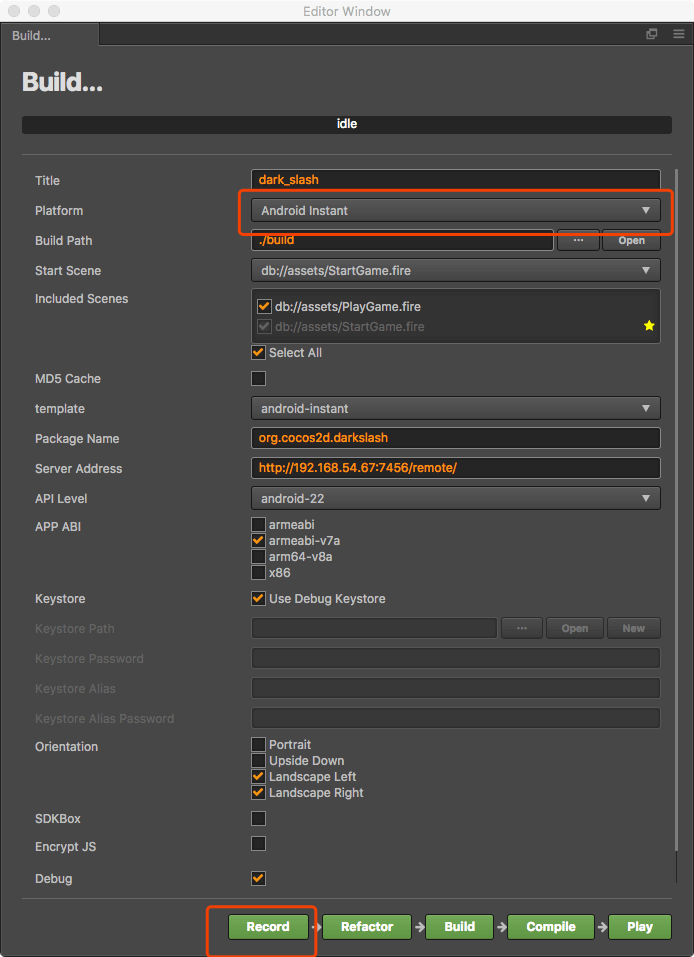
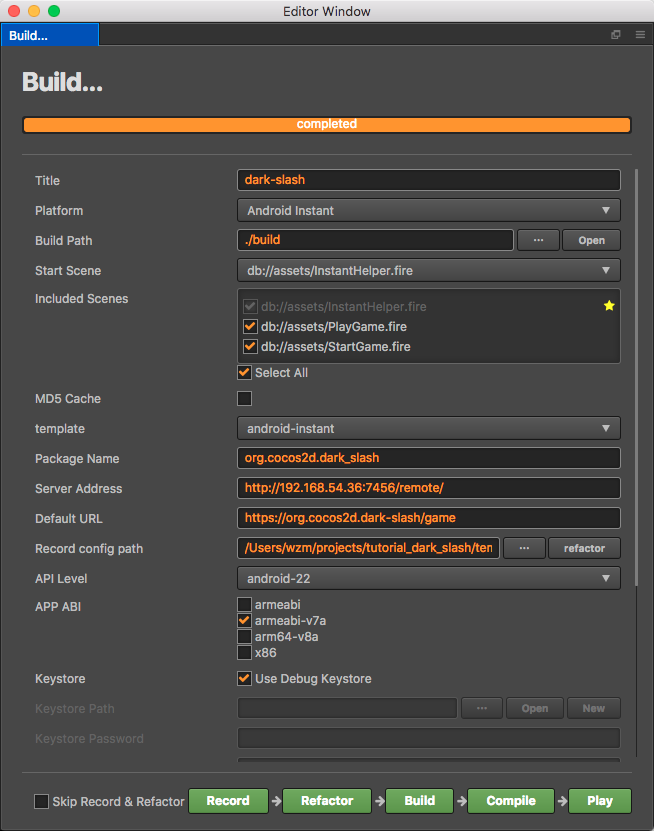
add google instant app docs

Changed region(s): [[0.0, 0.0, 1.0, 1.0], [0.7951, 0.8424, 0.8563, 0.8724], [0.8869, 0.8424, 0.9174, 0.8724]]

diff --git a/en/publish/publish-android-instant.md b/en/publish/publish-android-instant.md
@@ -2,25 +2,98 @@
 
 ## Requirement 
  - Android Studio 3.0+
- - Android Phone 8.0+
+
+ - Android Phone 6.0+
+
  - NDK r10c +
- 
-## Publish Process
- 1. Start cocos creator. 
- 2. Open Project->Build panel.
- 3. Click **Record** button to open simulator ,it will record game resources info automatically.
- 
+
+   
+
+## Instant Games Publish Process
+
+ 1. Start CocosCreator. 
+
+ 2. Open **Projec** t-> **Build panel** , select **Android Instant** platform , and **android-instant** template.
+
+ 3. If you don't need to refactor or want to experience the publish process , You can hook the **Skip Record & Refactor **box , then click **Build** , **Compile **, connect android phone to computer and then click **Play** , when process complete you can run instant app on the phone.
+
     ![](./publish-android-instant/open-refactor.png)
-    ![](./publish-android-instant/record.png)
-    
- 4. Click **Refactor** button to open Refactor panel, select the end point you want to pack into the first package,and then click **Save** button to save the package info.
- 
-    ![](./publish-android-instant/refactor.png)
-    
- 5. Click **Build** button to build the native android instant project then you can find it in the folder *build/android-instant*
- 6. Open the Android-studio app and open the project we create (path:*build/android-instant/framework/runtime-src/proj.android-studio*)
- 
-    ![](./publish-android-instant/android-studio.png)
- 
- 7. Connect Android Phone (Android 8.0+) to the computer and make sure the computer and the phone at the same Local Area Network.
- 8. Build project and run instantapp module.
+
+    4. If you need  **refactor** , you can click **Record** button and simulator will be opened. The simulation will automatically record the resources used . What we need to do is to play the game according to our game flow and let the simulator record resources information.
+
+       ![](./publish-android-instant/record.png)
+
+    5. After the recording is completed, click on the **Refactor**, the Refactor panel will be opened. In this panel, we can complete the refactor operation.(please see the following introduction  **Refactor** for more detail)
+
+    6. After we do the **Refactor**, we need to select the path of our record in the **record config path**, click the **...** button and select the record we just create.(the records path is in `path_to_your_project/temp/android-instant-games/profiles`, and we delete the record that we don't need by delete the record folder)
+
+       ![](publish-android-instant/refactor_record.png)
+
+    7. Like step 3, Click **Build**, **Compile**, **Play** button, and make sure the phone is on the same LAN as the PC, you can test the game running on the Instant App (More about Build config description please see the following introduction **Android Instant Build Panel**)
+
+       
+
+## Refactor
+
+The **Refactor** is used to edit the first package of the game and select the resources to be placed in the first package.
+
+![](publish-android-instant/refactor_desc.png)
+
+### How to use
+
+1. When you finish the Record, Click **Refactor** to open Refactor panel.
+
+2. The **Refactor** opens the latest record by default. If you need to open another record, you can click **+ Open record**. The **Refactor** can also open multiple records at the same time for comparison.
+
+3. Drag the **end point**, you can choose to divide the resources into the first package. When you drag the end point, you can find the data of the file list and the total size and other data changes. Select the size of the first package suitable for the game and we can finish the first step of the record.
+
+4. **Refactor** also can cancel resource manual, on the page of the file list, expand the nodes of each category, and we can see the size of each file, we can remove the resource by uncheck the resource item.
+
+   ![](publish-android-instant/refactor_select.png)
+
+5. If some resources are not in the first package, but we want to put it in the first package, we can click the **+Manual** button to open **Manual** panel, the rest of the resources will be presented here. Check the resources you need to put into the first package and click the **Save** button you will find it add to the first panel.
+
+   ![](publish-android-instant/refactor_manual.png)
+
+6. We can also drag resources from **Assets** panel  into **Refactor** panel to add another resources into first package.
+
+7. Finally, click **Save** button to save the first package info into record.
+
+8. In the **Record config path** option of the **Build...** panel,select the record we just edited, and then click the **Build** button, creator will use this record to generate the first package and other resources.
+
+## Android Instant Build Panel
+
+### Several major configurations description
+
+- **Server Address**: CocosCreator will go to this address to download resources tha are not in the first package. we can put remote_res (resource path:`build/android-instant/remote_res`) on our servers or CDN.
+
+- **Default URL**: Android will load your instant app by this URL.(see more detail: <a href="https://developer.android.com/topic/google-play-instant/getting-started/first-instant-app">Android Instant App Docs</a>)
+
+- **Record Config Path**: CocosCreator will use this crecord config to generate first package and remote_res folder.
+
+  
+
+## Instant Cookie API
+
+We have provided some APIs to make it easier for developers to call some of Google's features directly, we support Google Cookie API now.(CocosCreator Cookie API Demo: <a href="https://github.com/wuzhiming/AndroidInstantCookieDemo">**AndroidInstantCookieDemo**</a>)
+
+- cc.androidInstant.showInstallPrompt()   For more information, please visit：<a href="https://developers.google.com/android/reference/com/google/android/gms/instantapps/InstantApps.html#showInstallPrompt(android.app.Activity,%20android.content.Intent,%20int,%20java.lang.String)t">showInstallPrompt</a>
+
+- cc.androidInstant.isInstantApp()   For more information, please visit：<a href="https://developers.google.com/android/reference/com/google/android/gms/instantapps/PackageManagerCompat#isInstantApp()">isInstantApp</a>
+
+- cc.androidInstant.getInstantAppCookie()   For more information, please visit：<a href="https://developers.google.com/android/reference/com/google/android/gms/instantapps/PackageManagerCompat#getInstantAppCookie()">getInstantAppCookie</a>
+
+- cc.androidInstant.setInstantAppCookie()   For more information, please visit：<a href="https://developers.google.com/android/reference/com/google/android/gms/instantapps/PackageManagerCompat#setInstantAppCookie(byte%5B%5D)">setInstantAppCookie</a>
+
+- cc.androidInstant.getInstantAppCookieMaxSize()    For more information, please visit：<a href="https://developers.google.com/android/reference/com/google/android/gms/instantapps/PackageManagerCompat#getInstantAppCookieMaxSize()">getInstantAppCookieMaxSize</a>
+
+  
+
+
+## Knowledge links
+
+1. <a href="https://developer.android.com/topic/google-play-instant/getting-started/first-instant-app">Instant App</a>
+2. <a href="https://developers.google.com/android/reference/com/google/android/gms/instantapps/InstantApps">Google InstantApps API</a>
+3. <a href="https://github.com/googlesamples/android-instant-apps">Google Instant App Samples</a>
+4. <a href="https://github.com/wuzhiming/AndroidInstantCookieDemo">CocosCreator AndroidInstantCookieDemo</a>
+

diff --git a/zh/publish/publish-android-instant.md b/zh/publish/publish-android-instant.md
@@ -1,0 +1,109 @@
+
+
+# 发布 Android Instant 游戏
+
+## 需要的环境
+
+- Android Studio 3.0+
+
+- Android Phone 6.0+
+
+- NDK r10c +
+  
+
+## Instant Games 发布步骤
+
+1. 打开 CocosCreator
+
+2. 打开 **项目** -> **构建发布**，**发布平台**选择 **Android Instant** ，**模板**选择 **android-instant**
+
+3. 如果不需要进行分包或者想体验下打包流程，可以勾选**跳过录制和分包**，然后直接进行**构建**、**编译** ，连上手机之后，点击**运行**，即可看到 Instant App 的运行效果
+
+   ![](publish-android-instant/builder.png)
+
+4. 如果需要进行分包操作，那么请点击**录制**，这个时候模拟器将会打开，模拟将会自动记录使用到的资源，我们要做的是根据我们的游戏流程进行游戏，让模拟器记录资源使用的信息
+
+   ![](publish-android-instant/record.png)
+
+5. 录制完成后，点击**分包**，将会打开分包界面，在这个界面，我们可以完成分包操作，完成后我们进行**保存**（这里我们不展开说明，请看后面的 **分包器介绍** ）
+
+6. 分包完成后，我们需要在**构建发布**面板里面的**分包配置路径**属性选择我们的刚刚分包的路径，点击**...**选择我们刚刚分包的记录（分包记录保存在  `path_to_your_project/temp/android-instant-games/profiles` 我们可以删除自己不需要的分包记录，只需要删除对应文件夹即可）
+
+   ![](publish-android-instant/refactor_record.png)
+
+7. 同步骤3，点击**构建** 、**编译** 、**运行**，并确保手机跟pc在同一个局域网内，就可以测试游戏在Instant App运行的情况（构建发布面板的Android Instant配置的说明，请看后面的 **Android Instant 构建面板**）
+
+   
+
+## 分包器
+
+分包器，主要用来为游戏进行首包的编辑，选择放入首包的资源
+
+![](publish-android-instant/refactor_desc.png)
+
+### 使用方法
+
+1. 当录制完成后，选择**分包**就会打开分包界面，如上图所示
+
+2. 分包器默认打开的是最新的录制记录，如果需要打开别的记录，可以使用**+打开记录**，打开别的记录。分包器也可以同时打开多个记录，进行对比
+
+3. 拖动 **终止点**，可以选择分入首包的资源，当拖动终止点的时候，可以发现文件列表的文件数量和总大小等数据的变化，选择合适游戏的首包大小，即可粗略的分好首包的资源
+
+4. 分包器可以对所有资源进行调整，在文件列表的页面，展开各个分类的节点，可以看到对应各个文件的大小，取消**操作**的打钩就可以手动**取消**某个资源放入首包当中
+
+   ![](publish-android-instant/refactor_select.png)
+
+5. 如果有些资源没有在首包之中，但是我们又希望将其放入首包中，可以从 **+手动添加**里面添加入首包之中，只需要找到对应资源并在资源后面打上勾，并点击**添加**即可
+
+   ![](publish-android-instant/refactor_manual.png)
+
+6. 如果还有额外的资源需要加入首包，那么，也可以从**资源管理器**面板选择资源，并拖拽进入**分包器**面板即可
+
+7. 分包完成之后，点击**保存**
+
+8. 在**构建发布**面板的**分包配置**选项，选择刚刚编辑的分包记录，点击**构建**，就会使用该分包记录进行首包的分割
+
+
+
+## Android Instant 构建面板
+
+### 几个主要的配置
+
+- **服务器地址**：远端资源的下载地址，可以是cdn地址，将`build/android-instant/remote_res`文件夹放入服务器或者CDN中即可，Creator 会去这个地址下载没有在首包当中的资源
+- **启动URL**：Android Instant App 会根据这个这个协议启动对应的应用和对应的activity，详情请看 <a href="https://developer.android.com/topic/google-play-instant/getting-started/first-instant-app">Google Instant App 文档</a>
+- **分包配置路径**：Creator 会根据这个分包配置生成首包的资源
+
+
+
+## Android Studio 支持
+
+- 对 Android 工程的其他修改，我们可以使用 Android Studio 直接打开工程，对 android 工程进行其他代码的集成（工程路径：`path_to_your_project/build/android-instant/frameworks/runtime-src/proj.android-studio`）
+- Creator 也推荐使用 Android Studio 进行编译
+
+
+
+## Instant Cookie API
+
+我们提供了一些 API 方便开发者直接调用 Google 的一些功能，目前我们开放了 Instant Google Cookie API , 详情请前往谷歌文档查看，同时，我们提供了这些 API 的 demo ：<a href="https://github.com/wuzhiming/AndroidInstantCookieDemo">**AndroidInstantCookieDemo**</a>
+
+- cc.androidInstant.showInstallPrompt()  请前往 Google 查看详细文档：<a href="https://developers.google.com/android/reference/com/google/android/gms/instantapps/InstantApps.html#showInstallPrompt(android.app.Activity,%20android.content.Intent,%20int,%20java.lang.String)t">showInstallPrompt</a>
+
+- cc.androidInstant.isInstantApp()   请前往 Google 查看详细文档：<a href="https://developers.google.com/android/reference/com/google/android/gms/instantapps/PackageManagerCompat#isInstantApp()">isInstantApp</a>
+
+- cc.androidInstant.getInstantAppCookie()   请前往 Google 查看详细文档：<a href="https://developers.google.com/android/reference/com/google/android/gms/instantapps/PackageManagerCompat#getInstantAppCookie()">getInstantAppCookie</a>
+
+- cc.androidInstant.setInstantAppCookie()   请前往 Google 查看详细文档：<a href="https://developers.google.com/android/reference/com/google/android/gms/instantapps/PackageManagerCompat#setInstantAppCookie(byte%5B%5D)">setInstantAppCookie</a>
+
+- cc.androidInstant.getInstantAppCookieMaxSize()   请前往 Google 查看详细文档：<a href="https://developers.google.com/android/reference/com/google/android/gms/instantapps/PackageManagerCompat#getInstantAppCookieMaxSize()">getInstantAppCookieMaxSize</a>
+
+  
+
+## 相关知识链接
+
+1. <a href="https://developer.android.com/topic/google-play-instant/getting-started/first-instant-app">Instant App</a>
+2. <a href="https://developers.google.com/android/reference/com/google/android/gms/instantapps/InstantApps">Google InstantApps API</a>
+3. <a href="https://github.com/googlesamples/android-instant-apps">Google Instant App Samples</a>
+4. <a href="https://github.com/wuzhiming/AndroidInstantCookieDemo">CocosCreator AndroidInstantCookieDemo </a>
+
+
+
